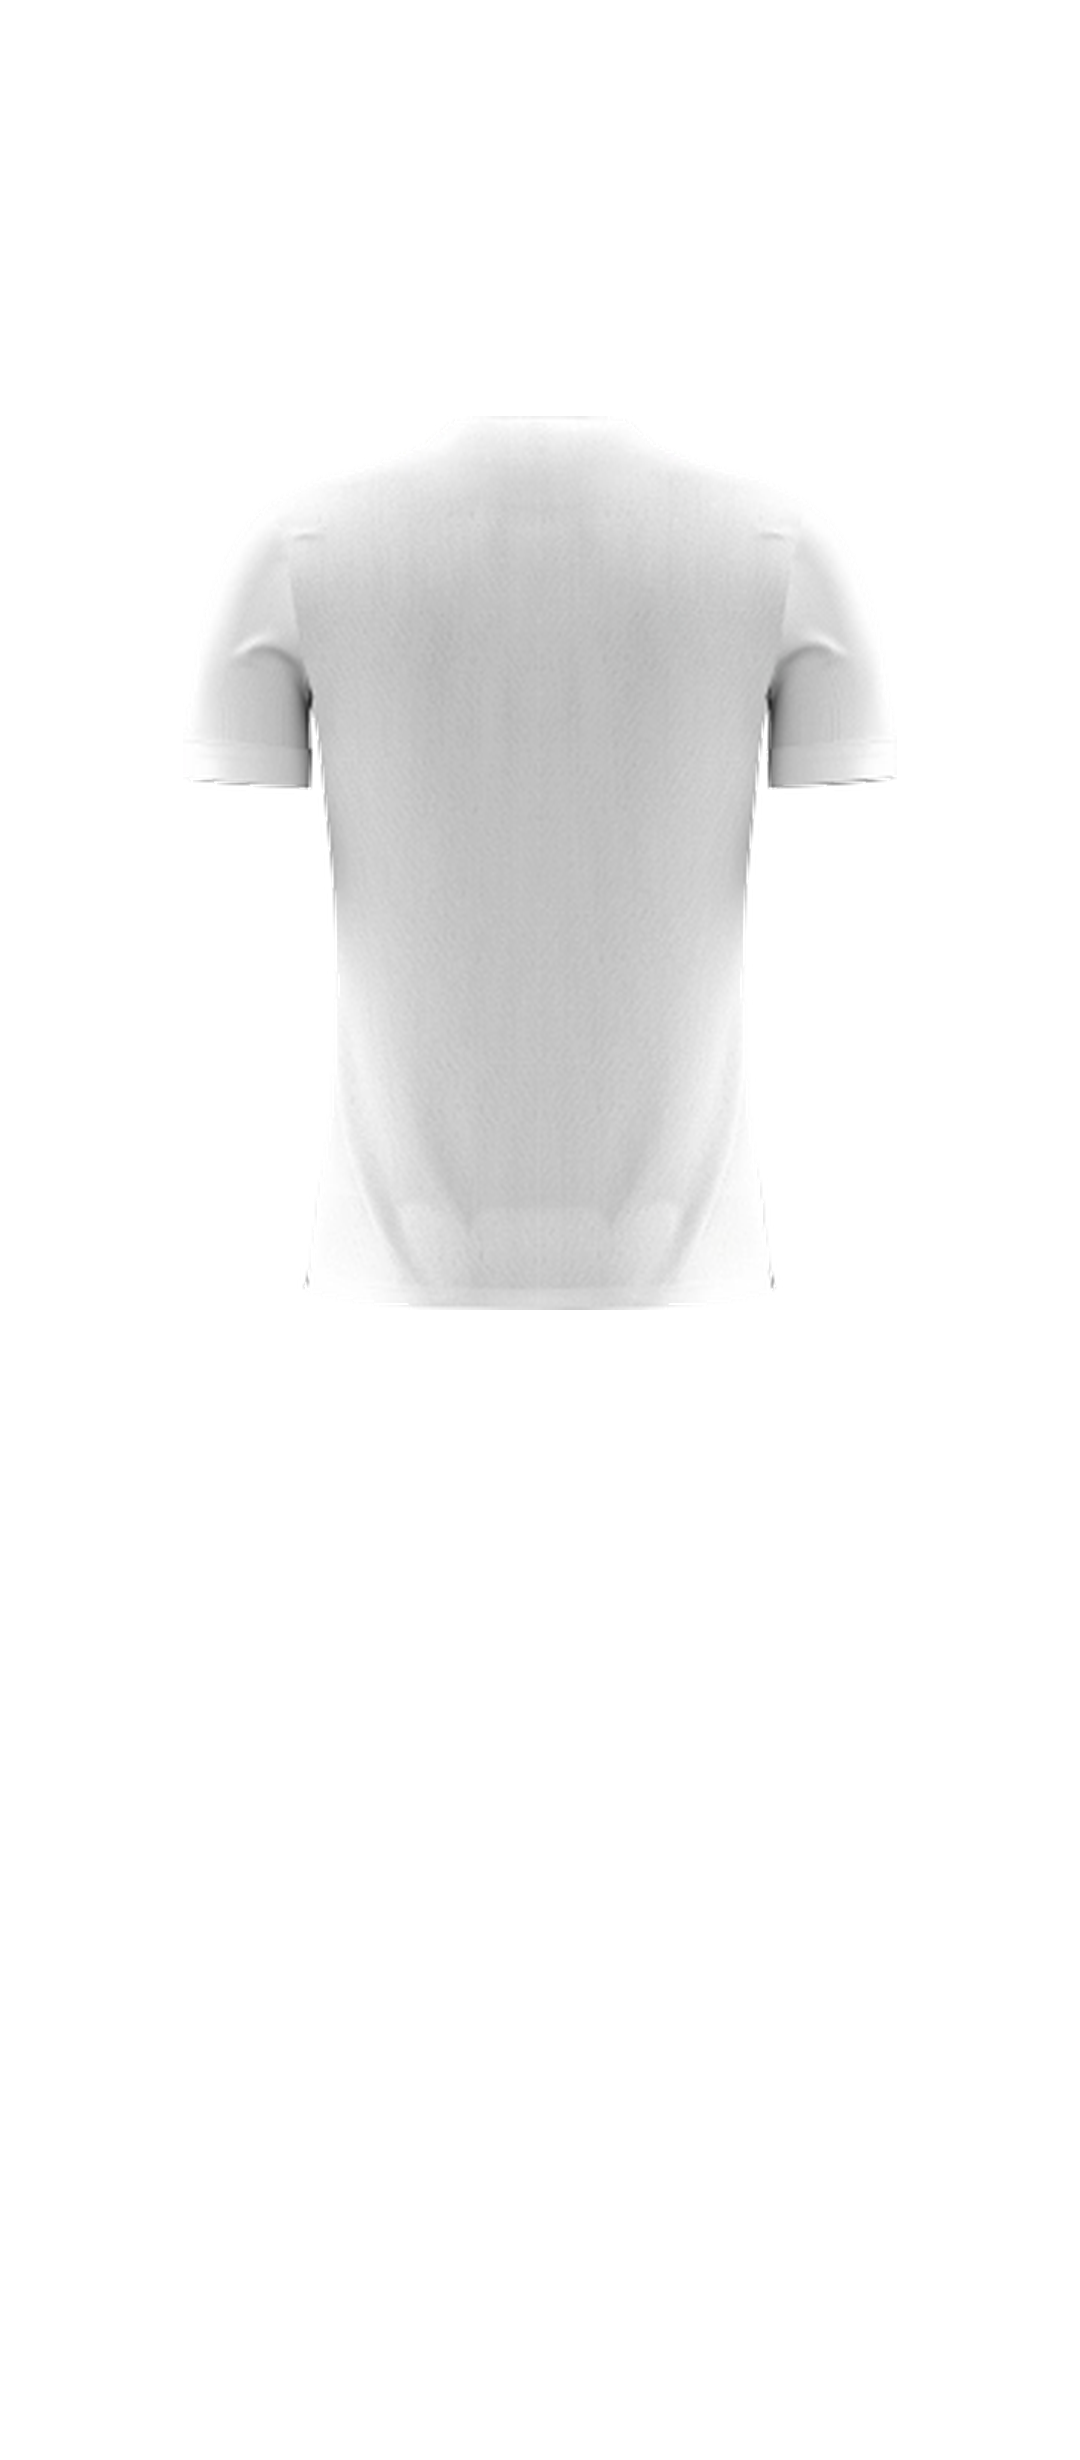
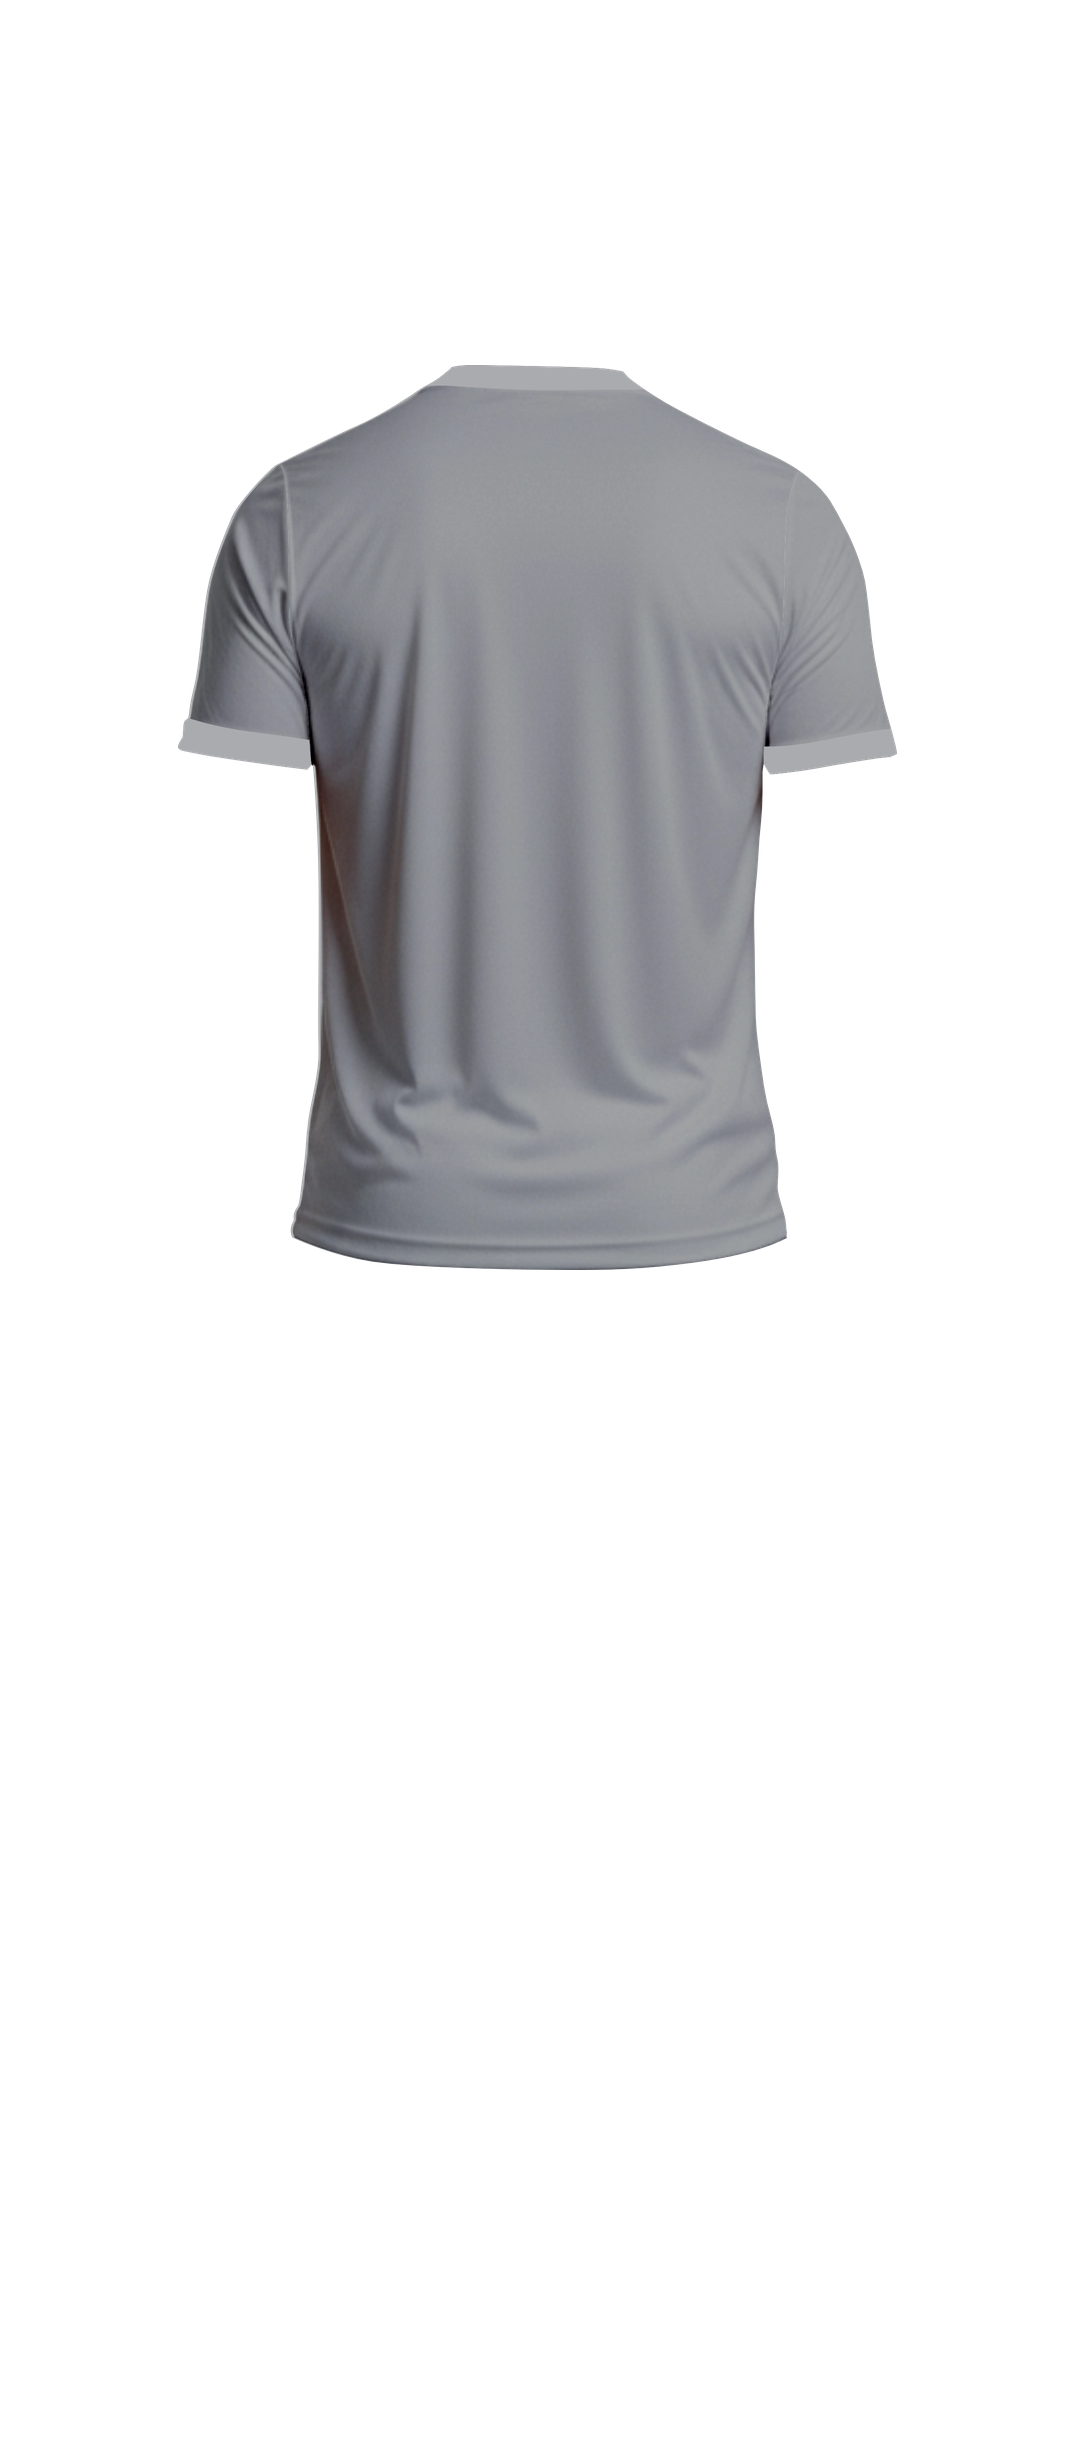
Mockup do designer no ambiente do jogador (UNIFORME DINO)
Substitui o jogador gerado e recortado pelo mockup do designer: avatar
já vestido + as mesmas peças isoladas (camiseta, bermuda, meião,
chuteira), frente e costas.

As peças vieram recortadas ao conteúdo, sem a prancheta comum. Em vez
de as afinar à mão, a posição de cada uma é ENCONTRADA por
correspondência de padrão no canal alfa do avatar (cv2.matchTemplate) —
o avatar veste exatamente as mesmas peças, por isso cada uma volta ao
pixel de onde saiu. Correspondências de 0.92 a 0.98.

Consequência prática: o avatar pode ficar INTEIRO como fundo. As peças
recoloridas cobrem-no ao pixel, sem folgas onde o kit branco espreite —
verificado com um kit azul/amarelo, que sai limpo. Cai por terra toda a
maquinaria de recorte por cor do jogador anterior.

A gola deixa de ser zona própria neste ambiente (o mockup traz a gola
integrada na camiseta); na versão original continua separada. As
chuteiras entram como camada estática, dessaturadas para o laranja não
brigar com as cores escolhidas.

Changed region(s): [[0.1528, 0.1236, 0.825, 0.5561]]

diff --git a/src/components/kit/KitViewer.tsx b/src/components/kit/KitViewer.tsx
@@ -59,27 +59,26 @@ function ConjuntoLado({ lado }: { lado: LadoKit }) {
           por isso os slots são todos idênticos, sem margens mágicas. */}
       <div className="relative h-[615px] w-[270px]">
         {VARIANTE_JOGADOR && (
-          /* ambiente de teste: o jogador recortado por trás das peças;
-             as botas são as dele, por isso a camada de botas não entra */
+          /* mockup do designer: o avatar já vestido é o fundo. As peças
+             recoloridas assentam-lhe por cima ao pixel (mesma prancheta),
+             por isso não há folgas onde o kit do avatar espreite. */
           <img
             src={`/moldes/jog/jogador-${lado}.png`}
             alt=""
             aria-hidden
-            className="pointer-events-none absolute left-1/2 top-[6px] z-0 h-[600px] max-w-none -translate-x-1/2"
+            className="pointer-events-none absolute inset-0 z-0 h-full w-full object-contain"
           />
         )}
         <PecaSlot peca="camisola" lado={lado} className="absolute inset-0 z-30" />
         <PecaSlot peca="calcao" lado={lado} className="absolute inset-0 z-20" />
         <PecaSlot peca="meiao" lado={lado} className="absolute inset-0 z-10" />
-        {!VARIANTE_JOGADOR && (
-          /* chuteiras: camada estática (não recolorem), meia entra na bota */
-          <img
-            src={`/moldes/botas-${lado}.png`}
-            alt=""
-            aria-hidden
-            className="pointer-events-none absolute inset-0 z-[15] h-full w-full object-contain drop-shadow-lg"
-          />
-        )}
+        {/* chuteiras: camada estática, não recolorem */}
+        <img
+          src={VARIANTE_JOGADOR ? `/moldes/jog/botas-${lado}.png` : `/moldes/botas-${lado}.png`}
+          alt=""
+          aria-hidden
+          className="pointer-events-none absolute inset-0 z-[15] h-full w-full object-contain"
+        />
       </div>
     </div>
   );

diff --git a/src/lib/kitReal.ts b/src/lib/kitReal.ts
@@ -69,20 +69,21 @@ const CAIXAS_PADRAO: Record<PecaKit, Record<LadoKit, Caixa>> = {
   },
 };
 
-/** Ambiente de teste com o jogador: as peças vivem noutras caixas
-    (cozedura de moldes/jog — perfil "jogador" do montar-originais.py). */
+/** Ambiente do JOGADOR: mockup do designer ("UNIFORME DINO"). As caixas
+    são a posição real de cada peça no avatar, encontrada por correspondência
+    de padrão — ver scripts/montar-dino.py. */
 const CAIXAS_JOGADOR: Record<PecaKit, Record<LadoKit, Caixa>> = {
   camisola: {
-    frente: { x: 337, y: 486, w: 413, h: 815 },
-    verso: { x: 332, y: 487, w: 415, h: 823 },
+    frente: { x: 191, y: 386, w: 705, h: 872 },
+    verso: { x: 178, y: 365, w: 719, h: 905 },
   },
   calcao: {
-    frente: { x: 228, y: 1168, w: 623, h: 513 },
-    verso: { x: 216, y: 1168, w: 647, h: 506 },
+    frente: { x: 251, y: 1245, w: 581, h: 439 },
+    verso: { x: 244, y: 1236, w: 592, h: 435 },
   },
   meiao: {
-    frente: { x: 272, y: 1696, w: 576, h: 545 },
-    verso: { x: 264, y: 1696, w: 584, h: 530 },
+    frente: { x: 256, y: 1744, w: 581, h: 510 },
+    verso: { x: 246, y: 1757, w: 582, h: 540 },
   },
 };
 
@@ -90,7 +91,7 @@ const CAIXAS = VARIANTE_JOGADOR ? CAIXAS_JOGADOR : CAIXAS_PADRAO;
 
 /** Janela da miniatura quadrada, por peça (sobre a caixa da frente). */
 const AMOSTRAS: Record<PecaKit, string> = VARIANTE_JOGADOR
-  ? { camisola: '360 500 360 620', calcao: '270 1220 520 420', meiao: '280 1760 500 420' }
+  ? { camisola: '260 450 560 740', calcao: '260 1250 560 420', meiao: '260 1750 560 490' }
   : { camisola: '340 200 400 700', calcao: '260 990 400 450', meiao: '300 1650 400 550' };
 
 function naCaixa(tema: Tema, svg: string, c: Caixa, lado: LadoKit, peca: PecaKit): string {

diff --git a/src/lib/kitDemo.ts b/src/lib/kitDemo.ts
@@ -51,9 +51,10 @@ function zonasDe(peca: PecaKit, lado: LadoKit): ZonaPeca[] {
     id: 'corpo', nome: 'Cor base', imagem: `${RAIZ_MOLDES}/vestida-${peca}-${lado}.png`,
     corPadrao: peca === 'camisola' ? '#221f20' : '#ffffff', recebeEstampa: true,
   };
-  // a gola vem numa camada própria do molde original (partilha a prancheta
-  // da camisa) e recolore à parte, como no simulador de referência
-  if (peca === 'camisola') {
+  // a gola é zona própria só na versão original (molde da referência, que
+  // a traz em camada separada); o mockup do designer tem a gola integrada
+  // na camiseta, por isso no ambiente do jogador a camisola é zona única
+  if (peca === 'camisola' && !VARIANTE_JOGADOR) {
     return [corpo, { id: 'gola', nome: 'Gola', imagem: `${RAIZ_MOLDES}/vestida-gola-${lado}.png`,
       corPadrao: '#e9e9e9' }];
   }

diff --git a/scripts/montar-dino.py b/scripts/montar-dino.py
@@ -1,0 +1,99 @@
+"""
+Monta o ambiente do JOGADOR a partir do mockup do designer ("UNIFORME DINO").
+
+O designer entregou, por lado, o AVATAR (jogador já vestido) e as peças
+isoladas (CAMISETA, BERMUDA, MEIAO, CHUTEIRA). As peças foram exportadas
+recortadas ao conteúdo, por isso perderam a prancheta comum — mas como o
+avatar veste EXATAMENTE as mesmas peças, a posição de cada uma encontra-se
+por correspondência de padrão (`cv2.matchTemplate`) dentro do avatar.
+
+É isso que torna este encaixe perfeito e não afinado à mão: cada peça volta
+ao pixel de onde saiu. Nada é distorcido — a única transformação é a escala
+comum que leva o mockup à tela do visualizador.
+
+    python3 scripts/montar-dino.py "<pasta UNIFORME DINO>"
+"""
+import os
+import sys
+
+import cv2
+import numpy as np
+from PIL import Image
+
+M = 4
+W, H = 270 * M, 615 * M          # tela comum do visualizador
+SAIDA = 'public/moldes/jog'
+
+# altura do avatar na tela (wrapper px) e topo — deixa margem para a sombra
+ALTURA_AVATAR = 596
+TOPO_AVATAR = 6
+
+LADOS = {'frente': ('PARTE FRENTE', 'FRENTE'), 'verso': ('PARTE COSTA', 'COSTA')}
+PECAS = {'camisola': 'CAMISETA', 'calcao': 'BERMUDA', 'meiao': 'MEIAO'}
+
+
+def carregar(base, pasta, nome, sufixo):
+    return Image.open(f'{base}/{pasta}/{nome} {sufixo}.webp').convert('RGBA')
+
+
+def localizar(avatar, peca):
+    """Onde é que a peça assenta no avatar (canto superior esquerdo).
+
+    A correspondência é feita no canal alfa: a silhueta é o sinal mais
+    limpo (a cor do tecido é quase uniforme e daria correlação fraca).
+    """
+    alvo = np.array(avatar.getchannel('A'))
+    modelo = np.array(peca.getchannel('A'))
+    r = cv2.matchTemplate(alvo, modelo, cv2.TM_CCORR_NORMED)
+    _, score, _, canto = cv2.minMaxLoc(r)
+    return canto, score
+
+
+def montar(base, lado):
+    pasta, sufixo = LADOS[lado]
+    avatar = carregar(base, pasta, 'AVATAR', sufixo)
+    caixa = avatar.getchannel('A').getbbox()
+    esc = ALTURA_AVATAR * M / (caixa[3] - caixa[1])
+
+    def para_tela(im, canto):
+        """Leva um recorte do espaço do avatar para a tela comum."""
+        larg = max(1, round(im.width * esc))
+        alt = max(1, round(im.height * esc))
+        x = round((canto[0] - caixa[0]) * esc + (W - (caixa[2] - caixa[0]) * esc) / 2)
+        y = round((canto[1] - caixa[1]) * esc + TOPO_AVATAR * M)
+        tela = Image.new('RGBA', (W, H), (0, 0, 0, 0))
+        tela.alpha_composite(im.resize((larg, alt), Image.LANCZOS), (x, y))
+        return tela, x, y, larg, alt
+
+    print(f'--- {lado} (escala {esc:.4f}) ---')
+
+    tela, *_ = para_tela(avatar.crop(caixa), (caixa[0], caixa[1]))
+    tela.save(f'{SAIDA}/jogador-{lado}.png')
+    print(f'  avatar: {caixa[2]-caixa[0]}x{caixa[3]-caixa[1]} → tela')
+
+    for chave, nome in PECAS.items():
+        peca = carregar(base, pasta, nome, sufixo)
+        canto, score = localizar(avatar, peca)
+        tela, x, y, larg, alt = para_tela(peca, canto)
+        tela.save(f'{SAIDA}/vestida-{chave}-{lado}.png')
+        print(f'  {chave:9s} match {score:.3f} em {canto} → caixa '
+              f'x={x}, y={y}, w={larg}, h={alt}')
+
+    # chuteiras: camada estática, dessaturada para não brigar com as cores
+    bota = carregar(base, pasta, 'CHUTEIRA', sufixo)
+    canto, score = localizar(avatar, bota)
+    a = np.array(bota).astype(np.float32)
+    cinza = a[..., :3].mean(2, keepdims=True)
+    a[..., :3] = cinza * 0.35 + a[..., :3] * 0.65   # tira o laranja forte
+    bota = Image.fromarray(a.astype(np.uint8))
+    tela, x, y, *_ = para_tela(bota, canto)
+    tela.save(f'{SAIDA}/botas-{lado}.png')
+    print(f'  chuteira  match {score:.3f} em {canto} → ({x},{y})')
+
+
+if __name__ == '__main__':
+    base = sys.argv[1]
+    os.chdir(os.path.dirname(os.path.dirname(os.path.abspath(__file__))))
+    os.makedirs(SAIDA, exist_ok=True)
+    for lado in LADOS:
+        montar(base, lado)
